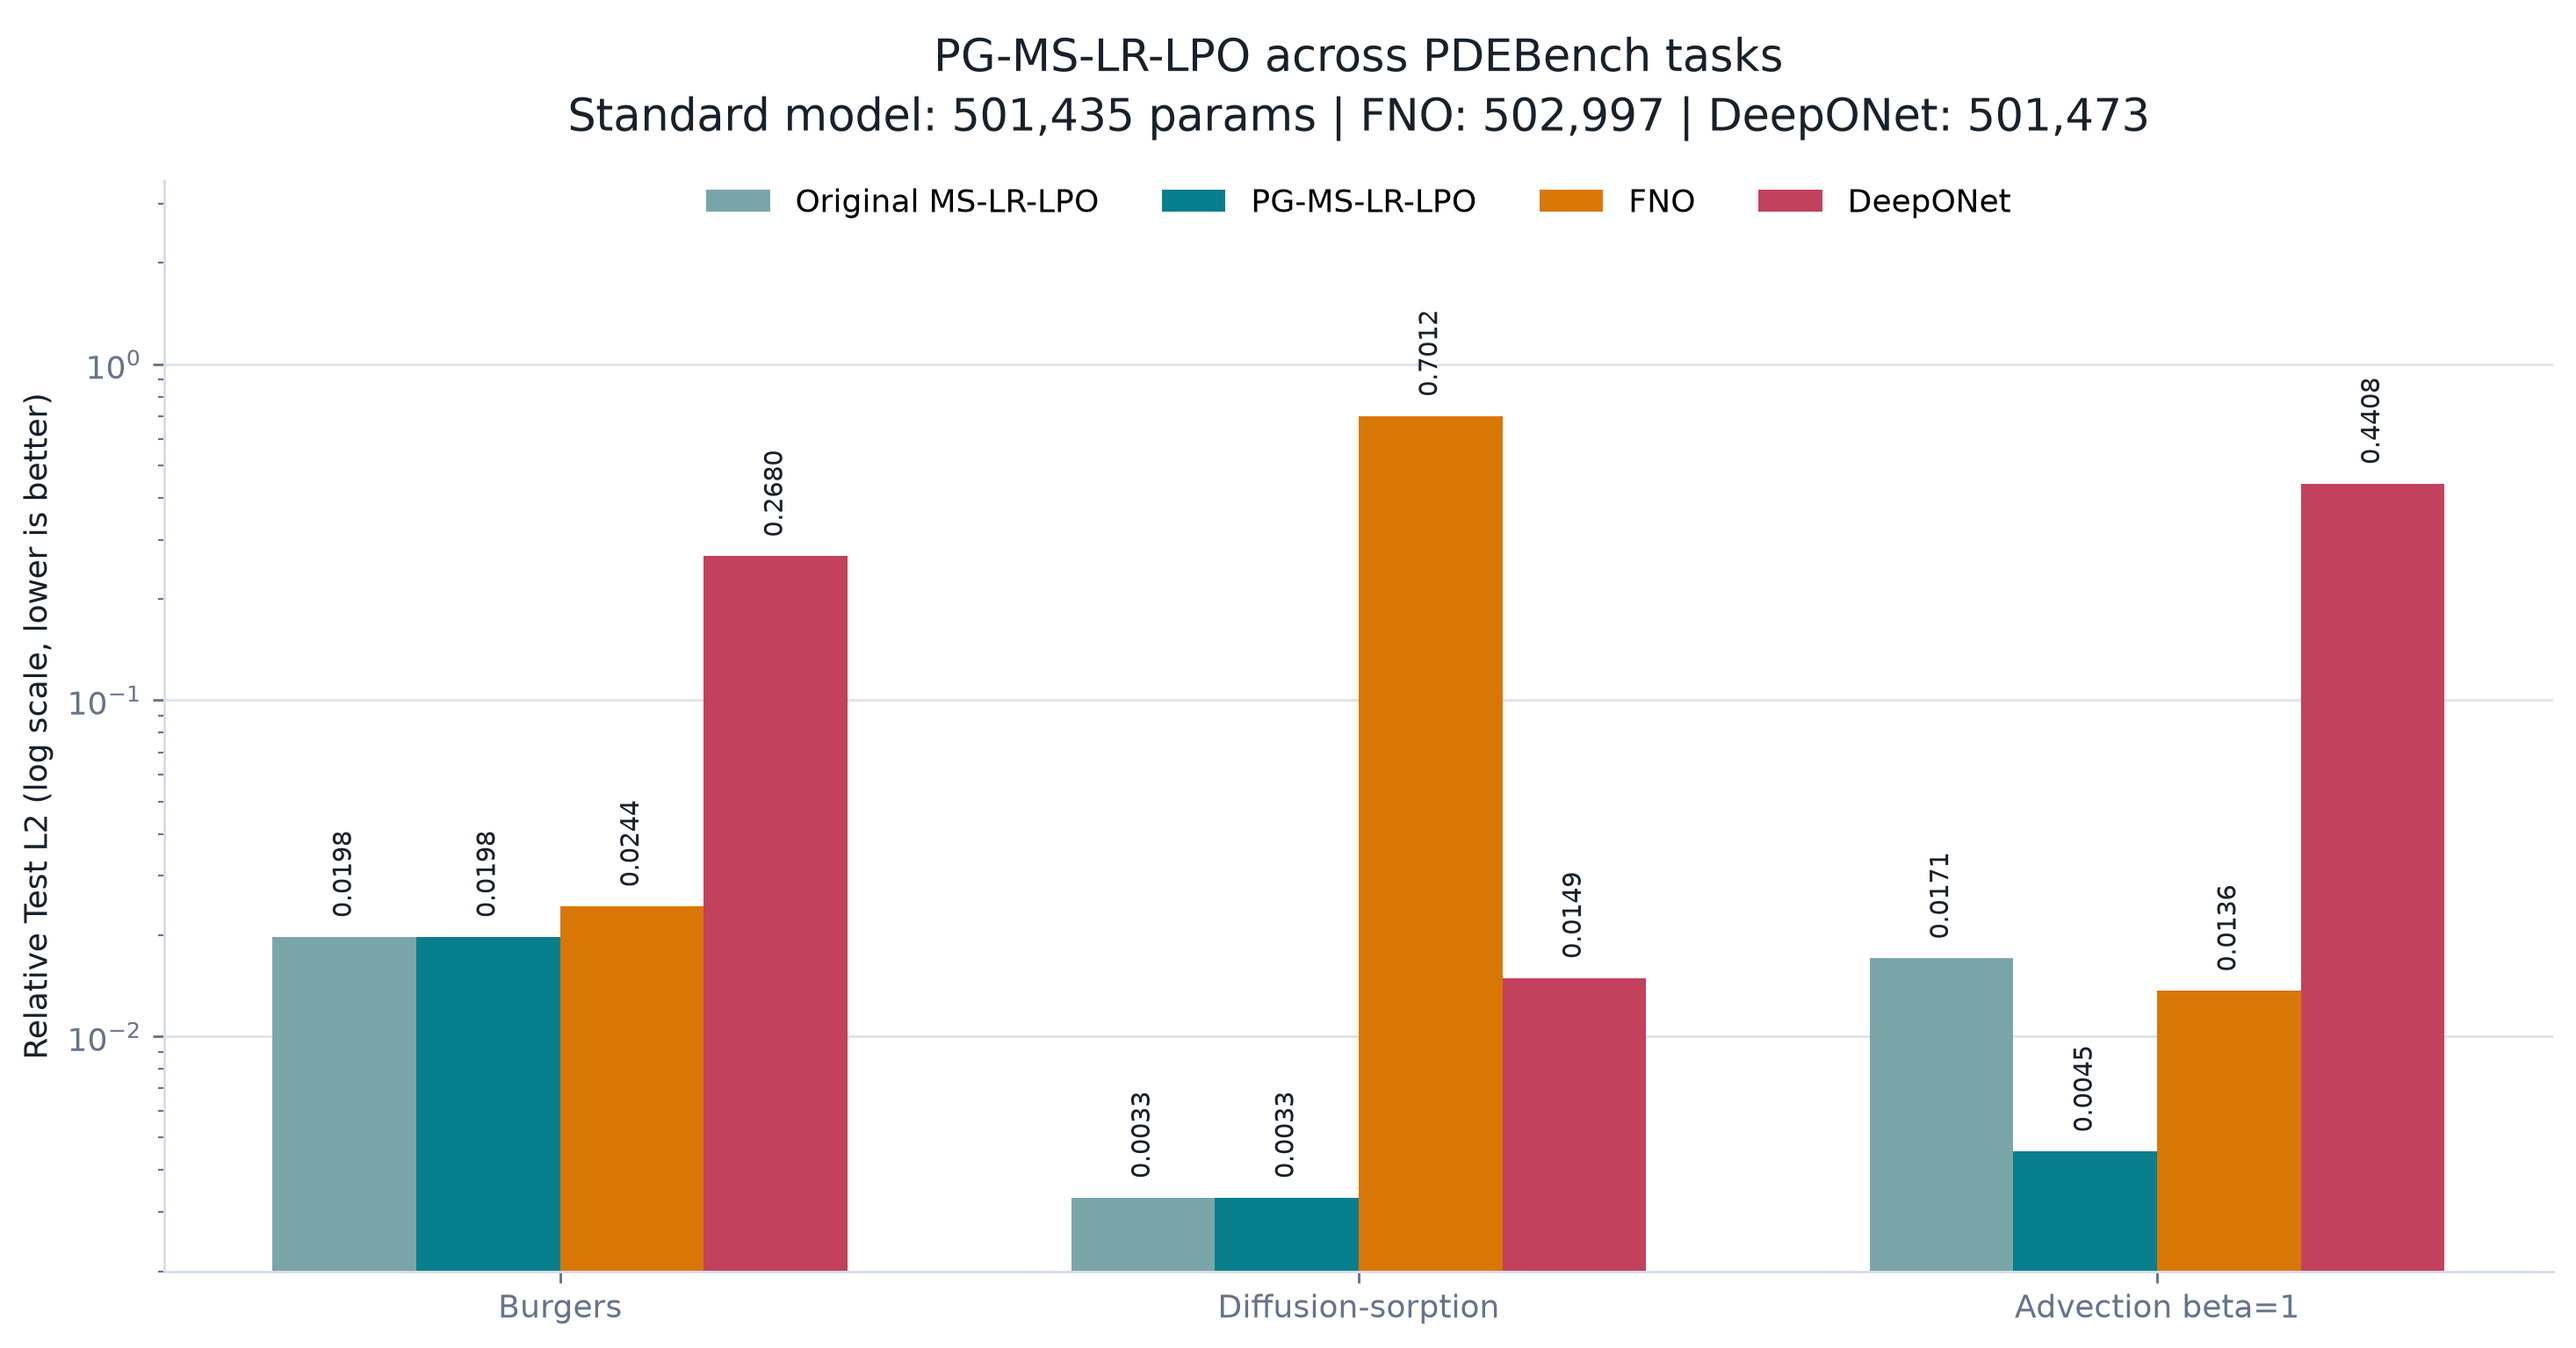
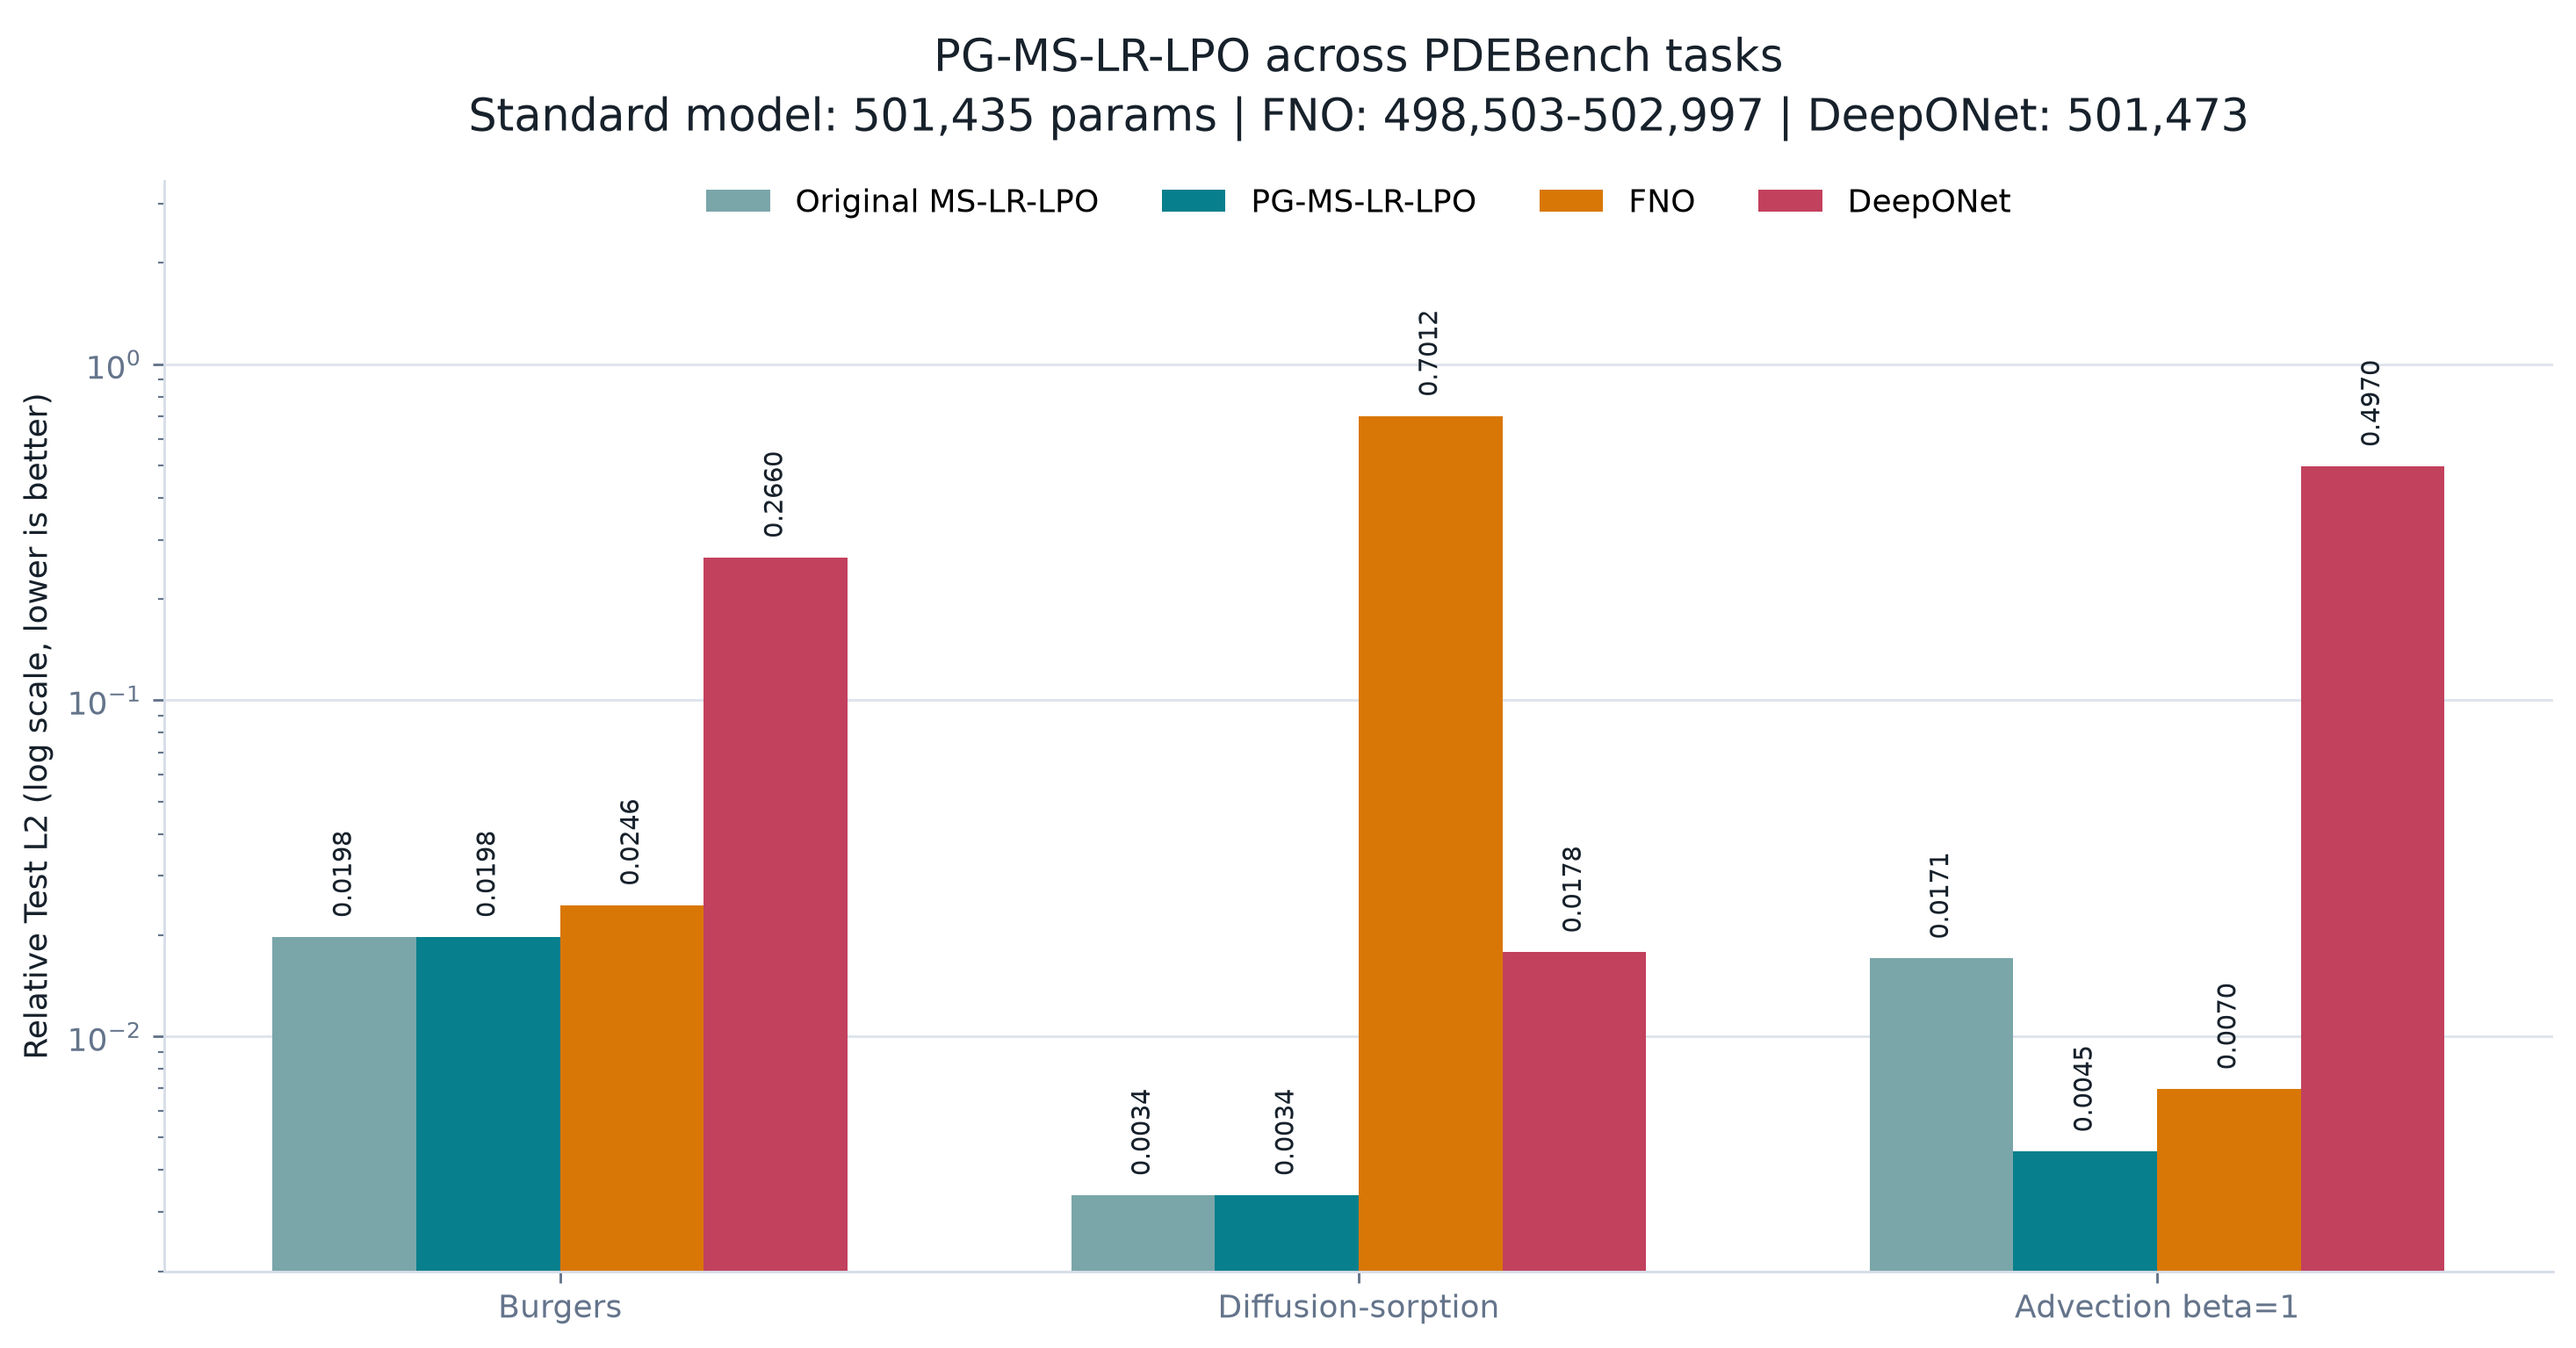
Add multi-seed validation and tuned FNO baselines

diff --git a/analysis_plots_clean/make_current_figures.py b/analysis_plots_clean/make_current_figures.py
@@ -182,22 +182,82 @@ def performance_comparison():
     values = np.array(
         [
             [
-                read_json(RUNS / "latent_pde_all_lowrank_joint" / "metrics.json")["final"]["test"],
-                read_json(CROSS / "new_model_eval" / "burgers_rank16" / "metrics.json")["test_relative_l2"],
-                read_json(RUNS / "fno_w104_m10_s7_24k" / "metrics.json")["test_relative_l2"],
-                read_json(RUNS / "deeponet_pm501_s7_24k" / "metrics.json")["test_relative_l2"],
+                np.mean(
+                    [
+                        read_json(RUNS / "latent_pde_all_lowrank_joint" / "metrics.json")["final"]["test"],
+                        read_json(RUNS / "latent_pde_all_lowrank_joint_s11" / "metrics.json")["final"]["test"],
+                        read_json(RUNS / "latent_pde_all_lowrank_joint_s23" / "metrics.json")["final"]["test"],
+                    ]
+                ),
+                np.mean(
+                    [
+                        read_json(RUNS / "latent_pde_all_lowrank_joint" / "metrics.json")["final"]["test"],
+                        read_json(RUNS / "latent_pde_all_lowrank_joint_s11" / "metrics.json")["final"]["test"],
+                        read_json(RUNS / "latent_pde_all_lowrank_joint_s23" / "metrics.json")["final"]["test"],
+                    ]
+                ),
+                np.mean(
+                    [
+                        read_json(RUNS / "fno_w104_m10_s7_24k" / "metrics.json")["test_relative_l2"],
+                        read_json(RUNS / "fno_w104_m10_s11_24k" / "metrics.json")["test_relative_l2"],
+                        read_json(RUNS / "fno_w104_m10_s23_24k" / "metrics.json")["test_relative_l2"],
+                    ]
+                ),
+                np.mean(
+                    [
+                        read_json(RUNS / "deeponet_pm501_s7_24k" / "metrics.json")["test_relative_l2"],
+                        read_json(RUNS / "deeponet_pm501_s11_24k" / "metrics.json")["test_relative_l2"],
+                        read_json(RUNS / "deeponet_pm501_s23_24k" / "metrics.json")["test_relative_l2"],
+                    ]
+                ),
             ],
             [
-                read_json(CROSS / "full" / "diff_sorp" / "ms_lr_lpo" / "metrics.json")["test_relative_l2"],
-                read_json(CROSS / "new_model_eval" / "diff_sorp" / "metrics.json")["test_relative_l2"],
-                read_json(CROSS / "full" / "diff_sorp" / "fno" / "metrics.json")["test_relative_l2"],
-                read_json(CROSS / "full" / "diff_sorp" / "deeponet" / "metrics.json")["test_relative_l2"],
+                np.mean(
+                    [
+                        read_json(CROSS / "full" / "diff_sorp" / "ms_lr_lpo" / "metrics.json")["test_relative_l2"],
+                        read_json(CROSS / "seeds" / "diff_sorp" / "pg_ms_lr_lpo_s11_12k" / "metrics.json")["test_relative_l2"],
+                        read_json(CROSS / "seeds" / "diff_sorp" / "pg_ms_lr_lpo_s23_12k" / "metrics.json")["test_relative_l2"],
+                    ]
+                ),
+                np.mean(
+                    [
+                        read_json(CROSS / "full" / "diff_sorp" / "ms_lr_lpo" / "metrics.json")["test_relative_l2"],
+                        read_json(CROSS / "seeds" / "diff_sorp" / "pg_ms_lr_lpo_s11_12k" / "metrics.json")["test_relative_l2"],
+                        read_json(CROSS / "seeds" / "diff_sorp" / "pg_ms_lr_lpo_s23_12k" / "metrics.json")["test_relative_l2"],
+                    ]
+                ),
+                np.mean(
+                    [
+                        read_json(CROSS / "fno_search" / "diff_sorp" / "fno_m24_w69" / "metrics.json")["test_relative_l2"],
+                        read_json(CROSS / "seeds" / "diff_sorp" / "fno_m24_w69_s11" / "metrics.json")["test_relative_l2"],
+                        read_json(CROSS / "seeds" / "diff_sorp" / "fno_m24_w69_s23" / "metrics.json")["test_relative_l2"],
+                    ]
+                ),
+                np.mean(
+                    [
+                        read_json(CROSS / "full" / "diff_sorp" / "deeponet" / "metrics.json")["test_relative_l2"],
+                        read_json(CROSS / "seeds" / "diff_sorp" / "deeponet_s11" / "metrics.json")["test_relative_l2"],
+                        read_json(CROSS / "seeds" / "diff_sorp" / "deeponet_s23" / "metrics.json")["test_relative_l2"],
+                    ]
+                ),
             ],
             [
                 read_json(CROSS / "full" / "advection_beta1" / "ms_lr_lpo" / "metrics.json")["test_relative_l2"],
                 read_json(CROSS / "improve_advection" / "transport_prior" / "metrics.json")["test_relative_l2"],
-                read_json(CROSS / "improve_advection" / "comparison" / "fno" / "metrics.json")["test_relative_l2"],
-                read_json(CROSS / "improve_advection" / "comparison" / "deeponet" / "metrics.json")["test_relative_l2"],
+                np.mean(
+                    [
+                        read_json(CROSS / "fno_search" / "advection_beta1" / "fno_m24_w69" / "metrics.json")["test_relative_l2"],
+                        read_json(CROSS / "seeds" / "advection_beta1" / "fno_m24_w69_s11" / "metrics.json")["test_relative_l2"],
+                        read_json(CROSS / "seeds" / "advection_beta1" / "fno_m24_w69_s23" / "metrics.json")["test_relative_l2"],
+                    ]
+                ),
+                np.mean(
+                    [
+                        read_json(CROSS / "improve_advection" / "comparison" / "deeponet" / "metrics.json")["test_relative_l2"],
+                        read_json(CROSS / "seeds" / "advection_beta1" / "deeponet_s11" / "metrics.json")["test_relative_l2"],
+                        read_json(CROSS / "seeds" / "advection_beta1" / "deeponet_s23" / "metrics.json")["test_relative_l2"],
+                    ]
+                ),
             ],
         ]
     )
@@ -227,7 +287,7 @@ def performance_comparison():
     axis.set_ylabel("Relative Test L2 (log scale, lower is better)")
     axis.set_title(
         "PG-MS-LR-LPO across PDEBench tasks\n"
-        "Standard model: 501,435 params | FNO: 502,997 | DeepONet: 501,473",
+        "Standard model: 501,435 params | FNO: 498,503-502,997 | DeepONet: 501,473",
         pad=16,
         fontsize=14,
         linespacing=1.45,

diff --git a/code/run_cross_pde_matrix.py b/code/run_cross_pde_matrix.py
@@ -53,6 +53,10 @@ def fno_command(dataset_dir: Path, prefix: str, output: Path, args) -> list[str]
     samples = ("16", "8", "8") if args.smoke else ("8000", "1000", "1000")
     batch_size = "4" if args.smoke else "64"
     log_every = "2" if args.smoke else "2000"
+    if prefix == "burgers_nu0.01":
+        width, modes = "104", "10"
+    else:
+        width, modes = "69", "24"
     return [
         sys.executable,
         str(ROOT / "code" / "baselines_1d_burgers.py"),
@@ -64,8 +68,8 @@ def fno_command(dataset_dir: Path, prefix: str, output: Path, args) -> list[str]
         "--test-samples", samples[2],
         "--steps", str(args.baseline_steps),
         "--batch-size", batch_size,
-        "--width", "104",
-        "--modes", "10",
+        "--width", width,
+        "--modes", modes,
         "--layers", "4",
         "--seed", str(args.seed),
         "--log-every", log_every,
